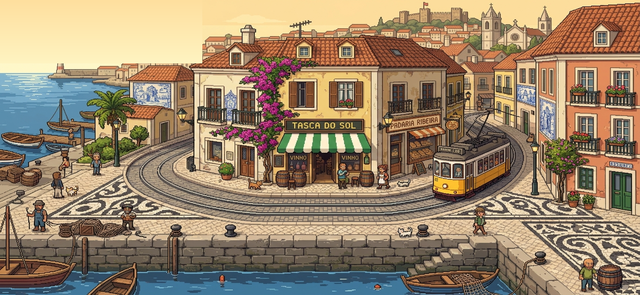
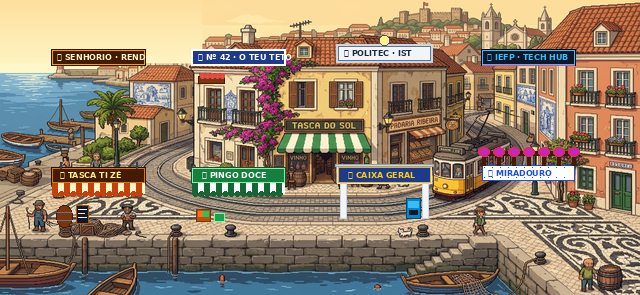
feat: physical pixel art storefronts, authentic unemployed start, and newspaper event matrix database

diff --git a/index.html b/index.html
@@ -773,13 +773,25 @@ const WORKPLACES = {
 };
 
 function getPlayerJob(workplaceKey = player.currentWorkplace) {
-    const wp = WORKPLACES[workplaceKey] || WORKPLACES.pingo_doce;
+    if (!workplaceKey || !WORKPLACES[workplaceKey]) {
+        return {
+            id: -1,
+            title: "Desempregado",
+            wagePerHour: 0,
+            hoursPerShift: 0,
+            desc: "Sem emprego ativo. Visita a Agência de Emprego, Pingo Doce, Tasca ou Caixa para começar a trabalhar!"
+        };
+    }
+    const wp = WORKPLACES[workplaceKey];
     const rank = (player.careerRanks && player.careerRanks[workplaceKey]) || 0;
     return wp.careers[Math.min(wp.careers.length - 1, rank)];
 }
 
 function getNextJob(workplaceKey = player.currentWorkplace) {
-    const wp = WORKPLACES[workplaceKey] || WORKPLACES.pingo_doce;
+    if (!workplaceKey || !WORKPLACES[workplaceKey]) {
+        return null;
+    }
+    const wp = WORKPLACES[workplaceKey];
     const rank = (player.careerRanks && player.careerRanks[workplaceKey]) || 0;
     if (rank >= wp.careers.length - 1) return null;
     return wp.careers[rank + 1];
@@ -799,9 +811,72 @@ const CAREERS = WORKPLACES.startup.careers;
 let currentEvent = null;
 
 // ============================================================================
-// SISTEMA DINÂMICO DO JORNAL DO PURGATÓRIO (100% Contextual ao Zé Desenrasca)
+// SISTEMA DINÂMICO DO JORNAL DO PURGATÓRIO (Base de Dados & Matriz de Condições)
 // ============================================================================
+let newspaperDb = null;
+
+// Carregamento assíncrono da Base de Dados JSON do Jornal
+fetch('assets/newspaper_database.json')
+    .then(r => r.json())
+    .then(d => {
+        if (d && d.events) {
+            newspaperDb = d.events;
+            console.log(`Base de Dados do Jornal do Purgatório carregada: ${newspaperDb.length} eventos.`);
+        }
+    })
+    .catch(() => { newspaperDb = null; });
+
+function matchEventConditions(ev, p) {
+    const c = ev.conditions || {};
+    if (c.workplace) {
+        const curWp = p.currentWorkplace || 'unemployed';
+        if (!c.workplace.includes('any') && !c.workplace.includes(curWp)) {
+            return false;
+        }
+    }
+    if (c.minHouseIndex !== undefined && p.houseIndex < c.minHouseIndex) return false;
+    if (c.maxHouseIndex !== undefined && p.houseIndex > c.maxHouseIndex) return false;
+    if (c.minWallet !== undefined && p.wallet < c.minWallet) return false;
+    if (c.maxWallet !== undefined && p.wallet > c.maxWallet) return false;
+    if (c.minSanity !== undefined && p.sanity < c.minSanity) return false;
+    if (c.maxSanity !== undefined && p.sanity > c.maxSanity) return false;
+    if (c.minEcts !== undefined && p.ects < c.minEcts) return false;
+    if (c.maxDaysUntilRent !== undefined && p.daysUntilRent > c.maxDaysUntilRent) return false;
+    return true;
+}
+
 function generateMorningEvent(p) {
+    // Se a base de dados JSON estiver disponível, usa a matriz de seleção ponderada
+    if (newspaperDb && newspaperDb.length > 0) {
+        const matched = newspaperDb.filter(e => matchEventConditions(e, p));
+        if (matched.length > 0) {
+            const totalWeight = matched.reduce((s, e) => s + (e.weight || 10), 0);
+            let rand = Math.random() * totalWeight;
+            let chosen = matched[0];
+            for (const ev of matched) {
+                rand -= (ev.weight || 10);
+                if (rand <= 0) { chosen = ev; break; }
+            }
+            return {
+                title: chosen.title,
+                desc: chosen.desc,
+                effect: (player) => {
+                    const eff = chosen.effect || {};
+                    if (eff.wallet) {
+                        player.wallet = Math.max(0, player.wallet + eff.wallet);
+                        if (eff.wallet > 0) stats.totalEarned += eff.wallet;
+                    }
+                    if (eff.sanity) player.sanity = Math.max(0, Math.min(100, player.sanity + eff.sanity));
+                    if (eff.hunger) player.hunger = Math.max(0, Math.min(100, player.hunger + eff.hunger));
+                    if (eff.groceries) player.groceries += eff.groceries;
+                    if (eff.ects) player.ects = Math.min(180, player.ects + eff.ects);
+                },
+                badge: chosen.stamp || "NOTÍCIA DE LISBOA",
+                badgeColor: chosen.stampColor || "#f59e0b",
+                good: (chosen.effect && chosen.effect.sanity > 0) || (chosen.effect && chosen.effect.wallet > 0)
+            };
+        }
+    }
     const curWp = WORKPLACES[p.currentWorkplace] || WORKPLACES.pingo_doce;
     const curJob = getPlayerJob();
     const curHouse = HOUSES[p.houseIndex];
@@ -1059,7 +1134,7 @@ let player = {
     groceries: 2,
     houseIndex: 1,
     careerIndex: 0,
-    currentWorkplace: 'pingo_doce',
+    currentWorkplace: null, // Começa Desempregado conforme a narrativa!
     careerRanks: {
         pingo_doce: 0,
         tasca: 0,
@@ -1817,86 +1892,73 @@ function renderBoard() {
     }
 }
 
-// Placas e Efeitos Interativos dos Edifícios no Tabuleiro (Sem molduras amarelas invasivas)
+// Efeitos Interativos dos Edifícios no Tabuleiro (As fachadas e letreiros existem fisicamente na arte!)
 function renderBuildingOverlays() {
     let hoveredBuilding = null;
 
     BUILDINGS.forEach(b => {
         const isHovered = (mouse.x >= b.x && mouse.x <= b.x + b.w && mouse.y >= b.y && mouse.y <= b.y + b.h);
-        if (isHovered) hoveredBuilding = b;
-
-        // Medição dinâmica da largura para o texto nunca transbordar
-        ctx.font = 'bold 8.5px "Fira Code"';
-        const label = `${b.icon} ${b.name}`;
-        const tw = ctx.measureText(label).width;
-        const signW = Math.max(90, Math.round(tw + 16));
-        const signH = 19;
-        const signX = (b.doorX || (b.x + b.w / 2)) - signW / 2;
-        const signY = (b.doorY || (b.y + b.h)) - 30;
-
-        // Sombra suave sob a placa
-        ctx.fillStyle = 'rgba(0, 0, 0, 0.45)';
-        ctx.fillRect(signX + 2, signY + 2, signW, signH);
-
-        // Fundo da placa (Ardósia escura com rebordo subtil)
-        ctx.fillStyle = isHovered ? '#1e293b' : '#090d16';
-        ctx.fillRect(signX, signY, signW, signH);
-        ctx.strokeStyle = isHovered ? '#38bdf8' : 'rgba(255, 255, 255, 0.2)';
-        ctx.lineWidth = isHovered ? 1.5 : 1;
-        ctx.strokeRect(signX, signY, signW, signH);
-
-        // Texto da placa perfeitamente centrado
-        ctx.fillStyle = isHovered ? '#ffffff' : '#e2e8f0';
-        ctx.textAlign = 'center';
-        ctx.fillText(label, signX + signW / 2, signY + 13);
-
-        // Indicador elegante saltitante quando hovered (substitui a moldura amarela berrante)
         if (isHovered) {
-            const arrowBob = Math.sin(animTimer * 7) * 2.5;
-            ctx.fillStyle = '#38bdf8';
-            ctx.font = '9px "Press Start 2P"';
+            hoveredBuilding = b;
+
+            // 1. Halo suave de luz dourada na porta do edifício
+            const doorX = b.doorX || (b.x + b.w / 2);
+            const doorY = b.doorY || (b.y + b.h);
+            const grad = ctx.createRadialGradient(doorX, doorY - 10, 2, doorX, doorY - 10, 28);
+            grad.addColorStop(0, 'rgba(254, 240, 138, 0.45)');
+            grad.addColorStop(0.55, 'rgba(245, 158, 11, 0.15)');
+            grad.addColorStop(1, 'rgba(245, 158, 11, 0)');
+            ctx.fillStyle = grad;
+            ctx.beginPath();
+            ctx.arc(doorX, doorY - 10, 28, 0, Math.PI * 2);
+            ctx.fill();
+
+            // 2. Indicador retro saltitante na porta (apenas quando hovered!)
+            const arrowBob = Math.sin(animTimer * 6.5) * 2.5;
+            ctx.fillStyle = '#f59e0b';
+            ctx.font = 'bold 11px "Press Start 2P"';
             ctx.textAlign = 'center';
-            ctx.fillText("▼", signX + signW / 2, signY - 4 + arrowBob);
+            ctx.fillText("▼", doorX, doorY - 18 + arrowBob);
         }
     });
 
-    // Tooltip refinada em ardósia/vidro escuro (sem molduras amarelas)
+    // Tooltip refinada que acompanha o cursor sem tapar o cenário
     if (hoveredBuilding && state === 'BOARD') {
         const b = hoveredBuilding;
-        const ttW = 210;
-        const ttH = 46;
+        const ttW = 220;
+        const ttH = 48;
         let ttX = mouse.x + 12;
-        let ttY = mouse.y - 52;
+        let ttY = mouse.y - 54;
 
         if (ttX + ttW > canvas.width - 10) ttX = mouse.x - ttW - 12;
         if (ttY < 10) ttY = mouse.y + 20;
 
         // Sombra
-        ctx.fillStyle = 'rgba(0, 0, 0, 0.55)';
+        ctx.fillStyle = 'rgba(0, 0, 0, 0.65)';
         ctx.fillRect(ttX + 3, ttY + 3, ttW, ttH);
 
-        // Caixa de ardósia escura
+        // Caixa de ardósia escura com borda na cor da localização
         ctx.fillStyle = '#0f172a';
         ctx.fillRect(ttX, ttY, ttW, ttH);
-        ctx.strokeStyle = '#334155';
+        ctx.strokeStyle = b.accent || b.color;
         ctx.lineWidth = 1.5;
         ctx.strokeRect(ttX, ttY, ttW, ttH);
 
-        // Título
+        // Título com ícone
         ctx.fillStyle = '#ffffff';
         ctx.font = 'bold 9px "Press Start 2P"';
         ctx.textAlign = 'left';
-        ctx.fillText(`${b.icon} ${b.name}`, ttX + 10, ttY + 14);
+        ctx.fillText(`${b.icon} ${b.name.toUpperCase()}`, ttX + 10, ttY + 16);
 
-        // Tag / Ação
+        // Descrição do local
         ctx.fillStyle = '#94a3b8';
         ctx.font = '8.5px "Fira Code"';
-        ctx.fillText(b.tag, ttX + 10, ttY + 28);
+        ctx.fillText(b.tag, ttX + 10, ttY + 30);
 
-        // Dica
+        // Prompt de entrada
         ctx.fillStyle = '#34d399';
         ctx.font = 'bold 7.5px "Press Start 2P"';
-        ctx.fillText("▶ CLIQUE P/ ENTRAR", ttX + 10, ttY + 40);
+        ctx.fillText("▶ CLIQUE P/ ENTRAR", ttX + 10, ttY + 42);
     }
 }
 
@@ -2819,7 +2881,8 @@ function renderHUD() {
 
     // Slot 4: Emprego Atual & Estudos (x: 342, w: 138) - Interativo / Clicável!
     const curJob = getPlayerJob();
-    const curWp = WORKPLACES[player.currentWorkplace] || WORKPLACES.pingo_doce;
+    const isEmployed = (player.currentWorkplace && WORKPLACES[player.currentWorkplace]);
+    const curWp = isEmployed ? WORKPLACES[player.currentWorkplace] : { icon: '💼', name: 'Desempregado' };
     const isHoverJob = (mouse.x >= 342 && mouse.x <= 480 && mouse.y >= hy + 8 && mouse.y <= hy + 56 && state === 'BOARD');
 
     ctx.fillStyle = isHoverJob ? '#1e293b' : '#151d2c';
@@ -2827,9 +2890,9 @@ function renderHUD() {
     ctx.strokeStyle = isHoverJob ? '#38bdf8' : '#233148';
     ctx.strokeRect(342, hy + 8, 138, 48);
 
-    ctx.fillStyle = isHoverJob ? '#ffffff' : '#facc15';
+    ctx.fillStyle = isHoverJob ? '#ffffff' : (isEmployed ? '#facc15' : '#94a3b8');
     ctx.font = 'bold 9px "Fira Code"';
-    let jobTitleShort = `${curWp.icon} ${curJob.title}`;
+    let jobTitleShort = isEmployed ? `${curWp.icon} ${curJob.title}` : "💼 Desempregado";
     if (ctx.measureText(jobTitleShort).width > 126) {
         while (ctx.measureText(jobTitleShort + '..').width > 126 && jobTitleShort.length > 4) {
             jobTitleShort = jobTitleShort.slice(0, -1);
@@ -4670,7 +4733,7 @@ function resetGame() {
     player.groceries = 2;
     player.houseIndex = 1;
     player.careerIndex = 0;
-    player.currentWorkplace = 'pingo_doce';
+    player.currentWorkplace = null; // Reinicia Desempregado
     player.careerRanks = {
         pingo_doce: 0,
         tasca: 0,
